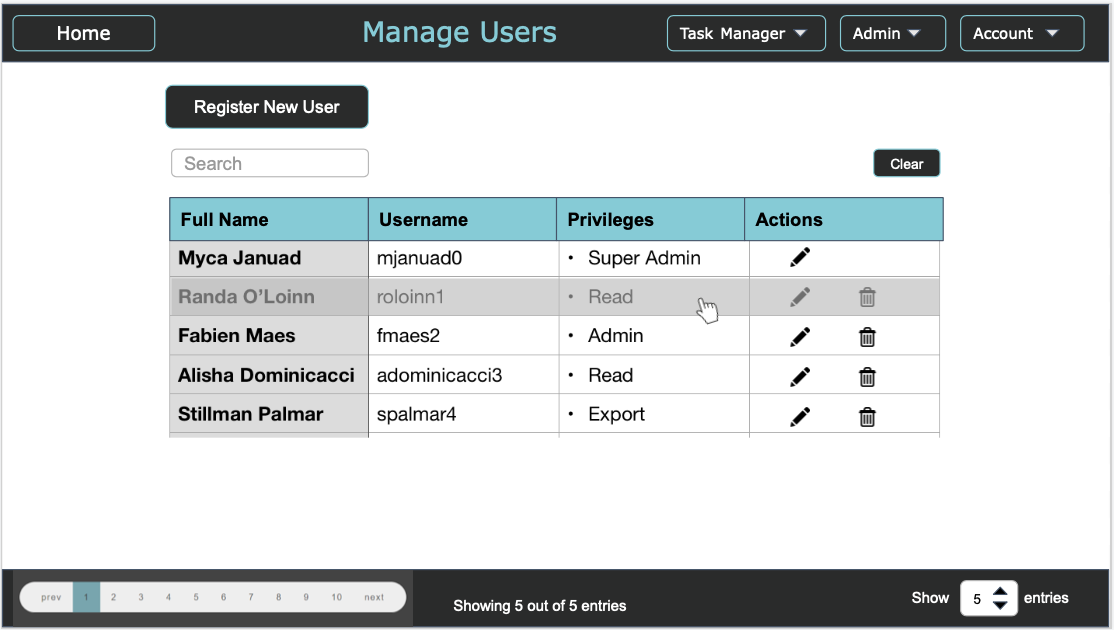
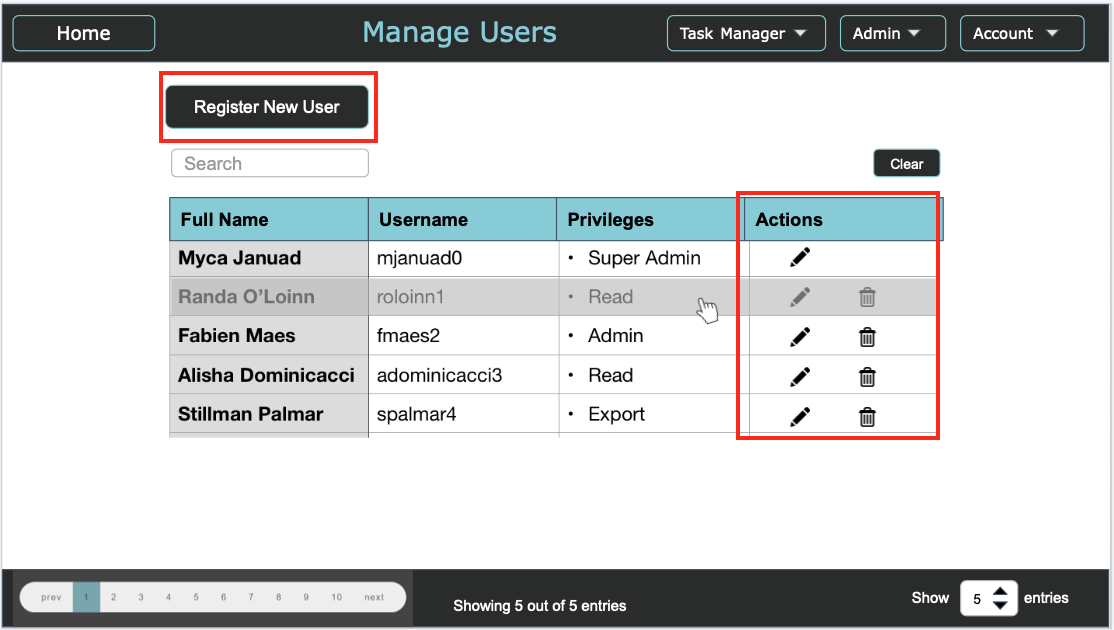
manageusers

diff --git a/Corpus/index.html b/Corpus/index.html
@@ -1441,6 +1441,30 @@
         
         
         <h3>User Management Final Versions</h3>
+        <p>Finally, admin section to manage users has been modified. Register New User button has been moved to main ‘Manage Users’ View and located above the table as requested by client. Action column has been added to edit or delete users and to display information about each user Modal popup has been applied. </p>
+        
+         <table id="lofitable1" border="0">
+            <tr>
+            <td id="img"> Manage Users View Final Version </td>
+            </tr>
+            <tr>
+                <td id="img"><img src="Phase4/manageusersfinal.png" width="400" height="225"></td>
+            </tr>  
+        </table> 
+        <table>
+            <tr>
+            <td id="img"> Edit User Final View </td>
+            <td id="img"> Register New User Final View </td> 
+            </tr>
+             
+            <tr>
+                <td id="img"><img src="Phase4/edituserfinal.png" width="400" height="225"></td>
+                <td id="img"><img src="Phase4/registeruserfinal.png" width="400" height="225"></td>
+            </tr> 
+        </table>
+        
+        
+        
         
         
 
